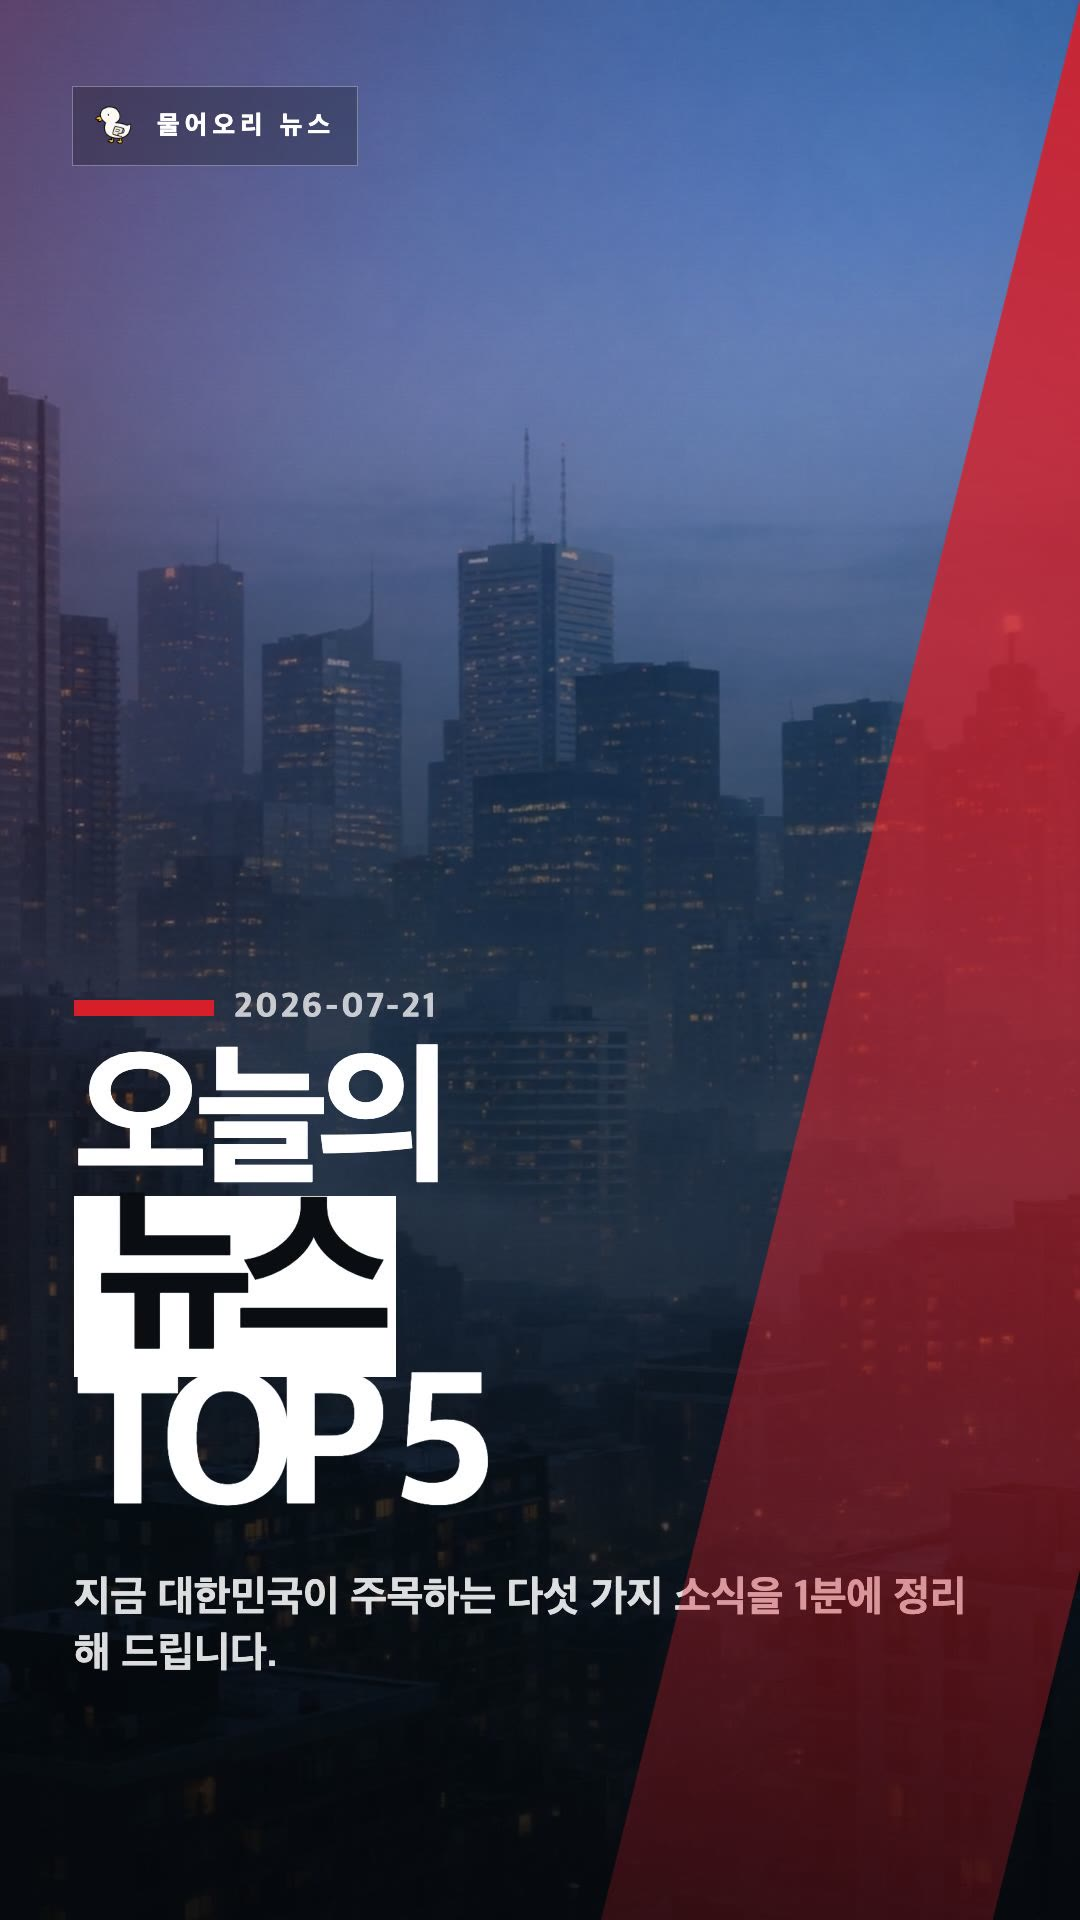
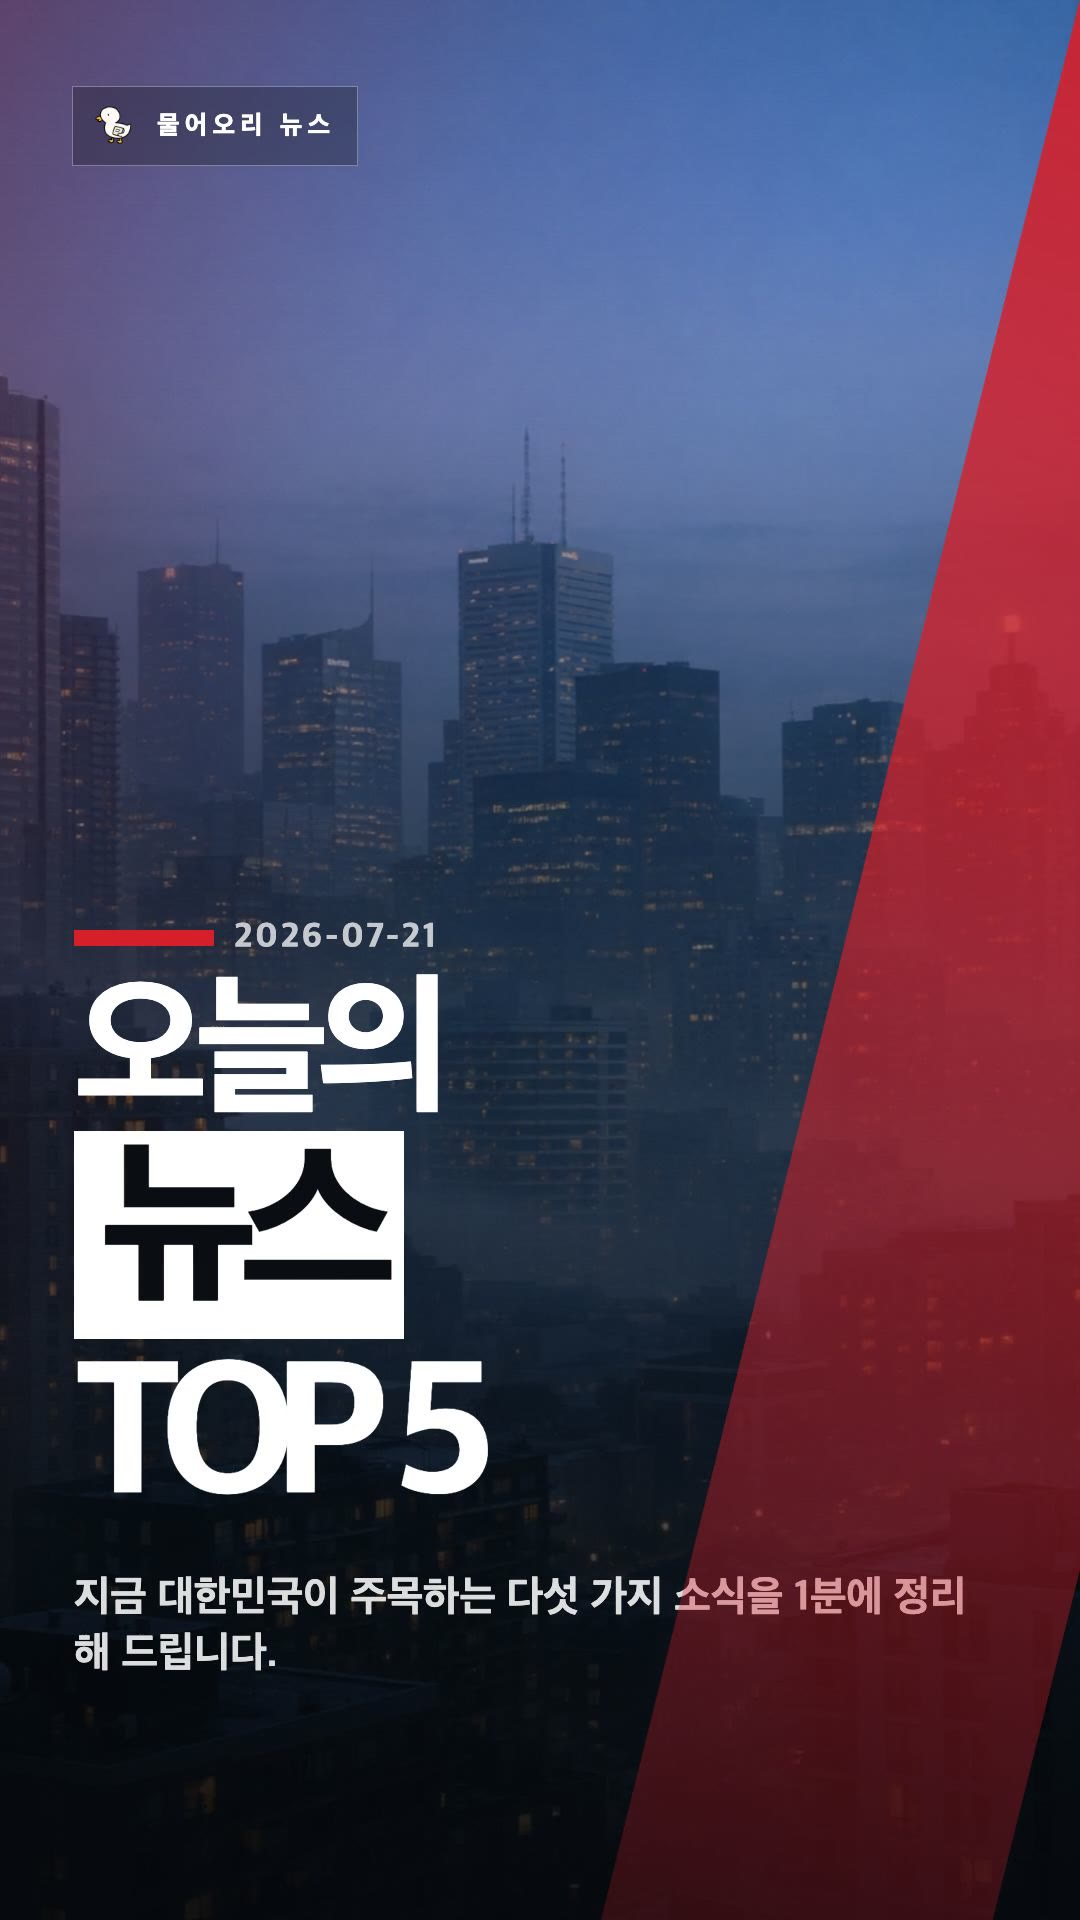
fix(cover): 뉴스 박스와 TOP 5 글자 겹침 해소 (lineHeight 정상화·간격 추가)
Claude-Session: https://claude.ai/code/session_019btxc3VAbTdfacknnVftH7

Changed region(s): [[0.0611, 0.4688, 0.4583, 0.7812]]

diff --git a/reels/src/HotIssueReelPhoto.jsx b/reels/src/HotIssueReelPhoto.jsx
@@ -171,19 +171,20 @@ const Cover = ({date, todayOneLiner, coverSrc}) => {
         <div
           style={{
             display: 'inline-block',
-            marginTop: 6,
-            padding: '8px 22px 20px',
+            marginTop: 10,
+            marginBottom: 14,
+            padding: '10px 26px 16px',
             backgroundColor: '#ffffff',
             color: '#0a0d11',
             fontSize: 182,
             fontWeight: 900,
-            lineHeight: 0.84,
+            lineHeight: 1.0,
             letterSpacing: '-0.1em',
           }}
         >
           뉴스
         </div>
-        <div style={{fontSize: 190, fontWeight: 900, lineHeight: 0.82, letterSpacing: '-0.11em'}}>
+        <div style={{fontSize: 190, fontWeight: 900, lineHeight: 0.95, letterSpacing: '-0.11em'}}>
           TOP 5
         </div>
         <div